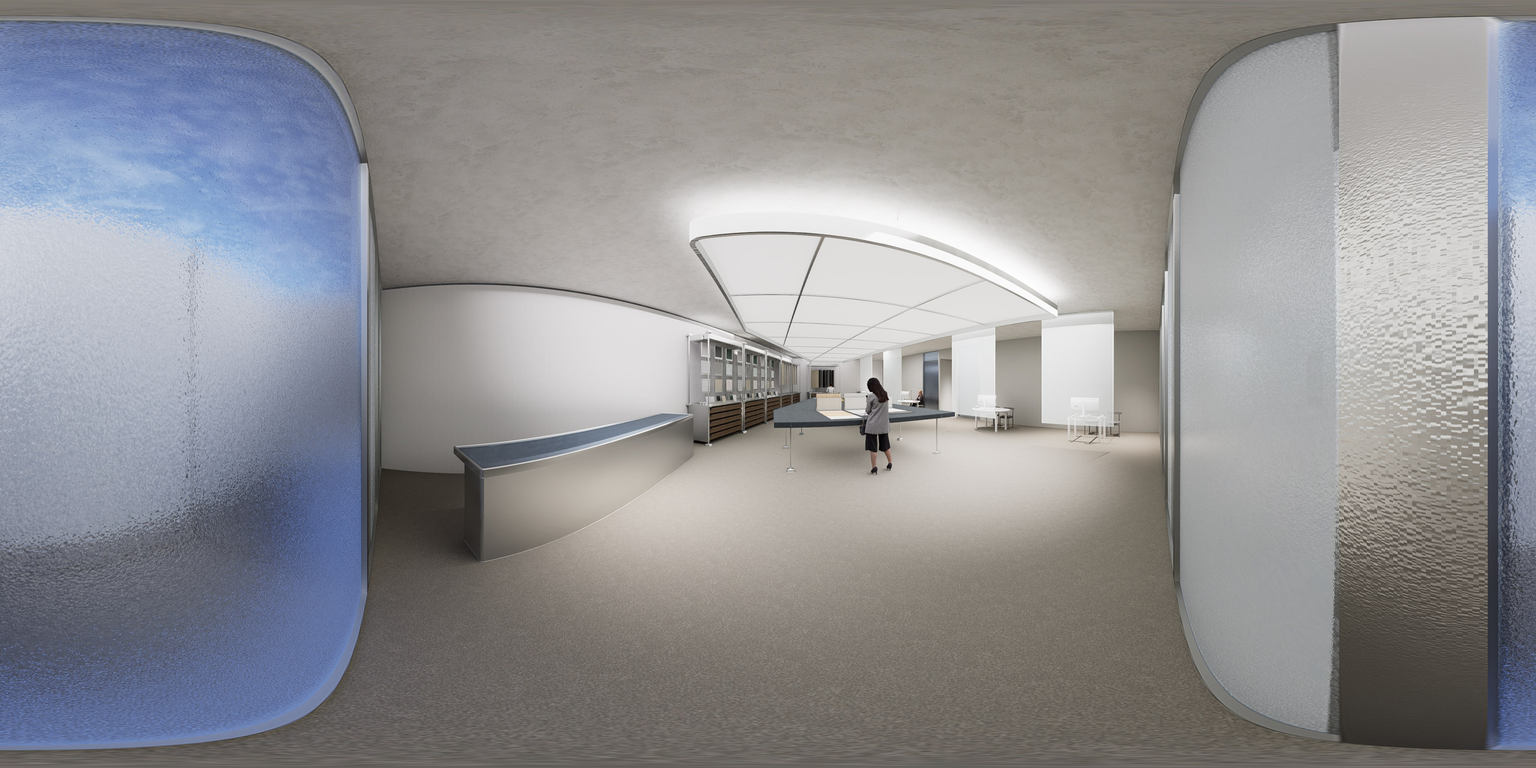
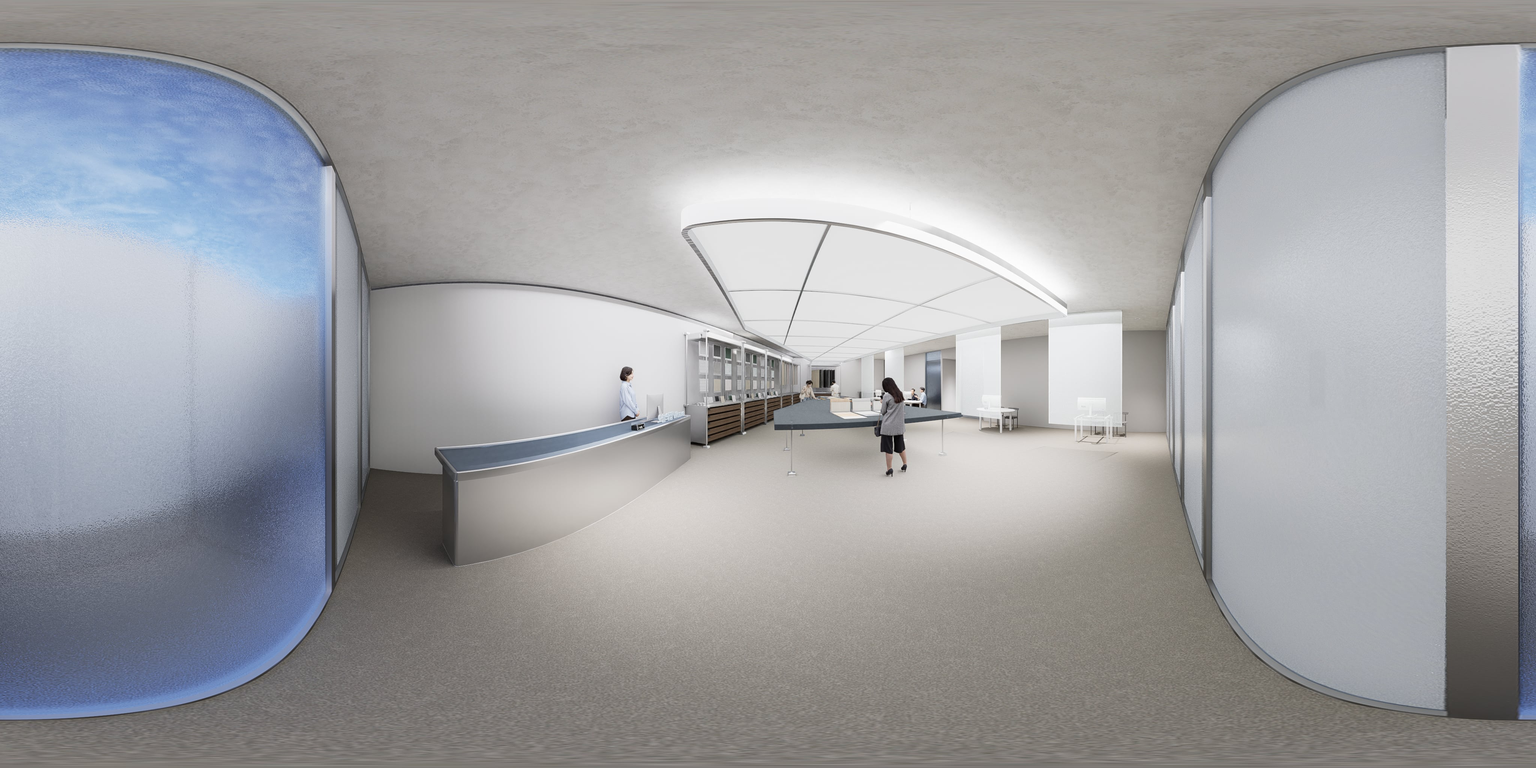
매장 렌더 교체: 새 렌더 4장을 장면에 배정
- store1 S0-5·6a, store2 S0-6b, store3 S0-6c, store4 S0-6d·e
- S0-6d·e는 store3 확대 시야 대신 store4 기본 시야
- 바닥 화살표 위치를 새 렌더 통로 바닥으로, 매장 4장을 같은 장(opening)으로 미리 불러옴
- 원본 PNG는 4K JPG로 줄여 올리고 기존 매장 렌더·빈 파일 삭제

Claude-Session: https://claude.ai/code/session_01RXp8MY4RTNqnWJfB5JWhVs

diff --git a/mvp/src/shared/scene.js b/mvp/src/shared/scene.js
@@ -5,7 +5,8 @@
 export const PANOS = {
   store_1: { name: '위브 매장 입구' },
   store_2: { name: '위브 매장 자재 라이브러리' },
-  store_3: { name: '위브 매장 상담 구역' },
+  store_3: { name: '위브 매장 샘플 테이블' },
+  store_4: { name: '위브 매장 상담실 앞' },
   counsel: { name: '상담실' },
   kitchen_front: { name: '주방 정면', view: 'front' },
   kitchen_side: { name: '주방 측면', view: 'side' },
@@ -83,10 +84,11 @@ export function parsePanoFile(file) {
 // ---------- 공간 위 좌표(yaw·pitch, 도) ----------
 // yaw 0 = 이미지 가로 중앙, +는 오른쪽. pitch +는 위. 렌더가 오면 태블릿 HUD의 좌표 표시로 재서 바꾼다(임시값)
 export const ANCHORS = {
-  // 매장 렌더(10/8): 바닥 화살표는 다음 공간 쪽 통로 바닥. 사람·가구와 겹치지 않는 자리
-  store_1: { hotspot: { yaw: 8, pitch: -22, to: 'store_2', label: '안쪽으로' } },
-  store_2: { hotspot: { yaw: -6, pitch: -24, to: 'store_3', label: '안쪽으로' } },
-  store_3: { hotspot: { yaw: -11, pitch: -11, to: 'counsel', label: '상담실로' } }, // 복도 입구 바닥(S0-6d·e에서 복도 쪽으로 확대한 시야 안)
+  // 매장 렌더(10/27 교체): 바닥 화살표는 다음 공간 쪽 통로 바닥. 사람·가구, 왼쪽 매니저 캐릭터와 겹치지 않는 자리
+  store_1: { hotspot: { yaw: 6, pitch: -26, to: 'store_2', label: '안쪽으로' } },
+  store_2: { hotspot: { yaw: 10, pitch: -26, to: 'store_3', label: '안쪽으로' } },
+  store_3: {}, // S0-6c는 '캡션 다음'으로 넘어가 화살표가 없다
+  store_4: { hotspot: { yaw: -7, pitch: -18, to: 'counsel', label: '상담실로' } }, // 가운데 상담실 복도 입구 바닥
   counsel: {},
   kitchen_front: {
     island: { yaw: -5, pitch: -20 }, // 아일랜드 누끼(CUT_PLACE.island_b_front) 가운데. 배치 연출 때 시선이 여기로

diff --git a/mvp/src/shared/pano-set.js b/mvp/src/shared/pano-set.js
@@ -3,13 +3,13 @@ import { FLOOR_AREA, LAYERS, PANOS, PLACEHOLDER_RECT, layerIdFor } from './scene
 import { FLOORS, ISLANDS } from './catalog.js';
 
 // 렌더가 없는 장면의 테스트 격자 색
-const TINTS = { store_1: '#e3ddd3', store_2: '#ddd6ca', counsel: '#d6dbe0', kitchen_front: '#e4e4e4', kitchen_side: '#dcdcdc' };
+const TINTS = { store_1: '#e3ddd3', store_2: '#ddd6ca', store_3: '#e0dace', store_4: '#d9d3c7', counsel: '#d6dbe0', kitchen_front: '#e4e4e4', kitchen_side: '#dcdcdc' };
 const ISLAND_TINT = { a: '#e8e4dc', b: '#5a2f22', c: '#b08a5e' };
 const FLOOR_WIRE = { portland: '#6f6a63', flosso: '#a39a8c' }; // 와이어프레임 바닥색(밝은 바닥 위에서도 보이게 실제보다 진하게)
 
 // 화면에 동시에 올려 두는 묶음(장). 장이 바뀌면 다른 장의 텍스처를 내린다(아이패드·아이맥 메모리 보호)
 const CHAPTERS = {
-  opening: ['store_1', 'store_2', 'counsel'],
+  opening: ['store_1', 'store_2', 'store_3', 'store_4', 'counsel'],
   main: ['kitchen_front', 'kitchen_side', ...Object.keys(LAYERS).map((id) => `layer:${id}`)],
 };
 const chapterOf = (pano) => (CHAPTERS.opening.includes(pano) ? 'opening' : 'main');

diff --git a/mvp/src/shared/scenario.js b/mvp/src/shared/scenario.js
@@ -136,7 +136,7 @@ export const STEPS = [
     caption: { speaker: 'manager', text: '상담실에서 김민선 씨가 기다리고 있으니, 이제 이동해볼게요.' },
     target: 'caption-next',
     hint: '다음',
-    tablet: { pano: 'store_3', view: { yaw: -11, pitch: -3, fov: 50 } }, // 상담실로 이어지는 복도 쪽으로 확대
+    tablet: { pano: 'store_4' }, // 상담실 쪽으로 다가간 매장 렌더(store_4)
     xr: { screen: 'standby' },
   },
   {
@@ -145,7 +145,7 @@ export const STEPS = [
     caption: { speaker: 'manager', text: '캡션 안내에 따라 순서대로 상담을 진행해주세요' },
     target: 'hotspot',
     hint: '화살표를 눌러 상담실로 이동',
-    tablet: { pano: 'store_3', view: { yaw: -11, pitch: -3, fov: 50 } },
+    tablet: { pano: 'store_4' },
     xr: { screen: 'standby' },
   },
   // ---------- 1 로딩 ----------

diff --git a/mvp/test/scenario.test.js b/mvp/test/scenario.test.js
@@ -141,7 +141,8 @@ test('매장: 화살표를 누르는 장면은 그 화살표가 가리키는 공
   }
   assert.equal(STEP['S0-6a'].tablet.character, 'front');
   assert.equal(STEP['S0-6b'].tablet.character, 'back');
-  assert.deepEqual(STEP['S0-6d'].tablet.view, STEP['S0-6e'].tablet.view); // 같은 복도 시야에서 이어짐
+  // 매장 렌더 배정(10/27): store1 S0-5·6a, store2 S0-6b, store3 S0-6c, store4 S0-6d·e
+  assert.deepEqual(['S0-5', 'S0-6a', 'S0-6b', 'S0-6c', 'S0-6d', 'S0-6e'].map((id) => STEP[id].tablet.pano), ['store_1', 'store_1', 'store_2', 'store_3', 'store_4', 'store_4']);
 });
 
 test('바닥재 측면 렌더를 _left 이름으로 올려도 측면 레이어로 인식', () => {

diff --git a/mvp/docs/PLAN.md b/mvp/docs/PLAN.md
@@ -94,6 +94,7 @@
 | 10/26 | 치수·주석 단계 설명 보강: 가이드 UI 문구 S2-2a·S2-2c·S3-1a 교체, S2-2a 치수확인 버튼의 지시문 말풍선을 빼고 딤+강조만, 가이드 UI(네이비 글씨)를 모든 장면에서 50px 아래로 | 사용자 피드백: 체험자가 치수·주석 기능의 의미를 이해하기 어려움 |
 | 10/26 | S0-3 상담 요청서: 등장 연출을 빼고 처음부터 모두 보이게, 의뢰 공간(0.7초) → 요청 사항(2.4초) → 무드보드(4.1초)가 1.6초씩 흰색 하이라이트(글자는 어둡게)됐다 돌아옴 | 사용자 피드백: 연출이 빨라 캡션이 눈에 안 들어옴 |
 | 10/26 | 상담 시작(S1)을 Figma(2015:5936)대로: 상담실 파노라마 위 검정 50%, 김민선 헤드셋 착용 모습은 카드 밖 오른쪽에 크게, 카드에는 불러오는 3D 도면(천천히 떠오르며 빛남). 문구 '김민선 씨가 XR 헤드셋을 착용 중 / 주방 3D도면을 불러오고 있어요' | 사용자 디자인 |
+| 10/27 | 매장 렌더 교체(새 렌더 4장): store1 S0-5·6a, store2 S0-6b, store3 S0-6c, store4 S0-6d·e. S0-6d·e는 store3을 당겨 보던 확대 대신 store4 기본 시야. 바닥 화살표를 새 렌더 통로 바닥으로 옮김(store3은 화살표 없음). 4K JPG(0.4~0.9MB)로 줄여 git에 | 사용자 렌더 수정. 원본 PNG(11~19MB)는 git에 올리지 않음 |
 | 10/8 | 매장 렌더 3장·상담실 렌더 반영. 매장 단계 S0-5c 추가(입구 → 자재 라이브러리 → 상담 구역 → 상담실), 4K JPG로 변환해 원본 PNG는 git에서 뺌 | 사용자 업로드. 매장·상담실은 태블릿에만 나와 4K로 충분 |
 | 10/8 | **시나리오 수정**: S2는 김민선 무드보드로 시작, S3·S4는 매니저가 제안(아일랜드 3개·바닥재) → 김민선이 XR에서 고름. 옛 S3-2·S3-3a~c와 상담상세 후보 고르기 삭제. 바닥재 단계는 측면(kitchen_side) 시점 | 고객의 결정권과 XR 화면과의 상호작용 강화(사용자 수정안) |
 | 10/8 | 매니저 말풍선은 매장 장면에만, 상담 중에는 **가이드 UI**(Figma 1438:4043)로 할 일 안내. 체험자가 맡은 매니저의 대사는 XR 자막으로만 | 체험자 본인이 매니저라 매니저 말풍선이 헷갈림 |

diff --git a/mvp/docs/SCENARIO.md b/mvp/docs/SCENARIO.md
@@ -22,8 +22,8 @@
 | S0-6a | store_1 + 매니저 정면 | — | 매니저: 김민선씨의 아파트 주방 스캔본을 보면서 상담을 진행할텐데,<br>오늘은 첫 컨설팅이니까 제가 함께 동행할거에요 | 바닥 화살표 | 대기 화면 |
 | S0-6b | store_2 + 매니저 뒷모습 | — | 매니저: 이곳은 상담 전 자재를 둘러볼 수 있는 공간이에요. | 바닥 화살표 | 대기 화면 |
 | S0-6c | store_3 | — | 매니저: 실물 샘플이 비치되어있어서, 상담 중 필요한 자재는 직접 가져다 제안할 수 있어요 | 캡션 다음 | 대기 화면 |
-| S0-6d | store_3 + 복도 쪽 확대 | — | 매니저: 상담실에서 김민선 씨가 기다리고 있으니, 이제 이동해볼게요. | 캡션 다음 | 대기 화면 |
-| S0-6e | store_3 + 복도 쪽 확대 | — | 매니저: 캡션 안내에 따라 순서대로 상담을 진행해주세요 | 바닥 화살표 | 대기 화면 |
+| S0-6d | store_4 | — | 매니저: 상담실에서 김민선 씨가 기다리고 있으니, 이제 이동해볼게요. | 캡션 다음 | 대기 화면 |
+| S0-6e | store_4 | — | 매니저: 캡션 안내에 따라 순서대로 상담을 진행해주세요 | 바닥 화살표 | 대기 화면 |
 | S1 | counsel + 로딩 카드 | 김민선 씨가 XR 헤드셋을 착용 중 | — | 자동 3.5초 | 부팅 |
 | S2-1 | kitchen_front + 무드보드 | 김민선 씨가 무드보드를 공유했어요 | 김민선: 이 사진들처럼 주방에 조리대 겸 식탁으로 쓸 수 있는 아일랜드를 추가하고,<br>바닥재도 차분한 톤으로 맞추고 싶어요 | 캡션 다음 (60° 둘러보기 또는 6초 뒤 열림) | 상담홈 · 무드보드 · 자막(김민선) |
 | S2-2a | kitchen_front | 싱크대로부터 이동 동선을 확보하려면 최소 900mm는 띄워야해요 | — | 치수확인 | 상담홈 · 자막(매니저): 싱크대로부터 900mm 이동동선 확보하고 이 쪽에 한 번 배치해볼게요 |

diff --git a/mvp/assets/pano/README.md b/mvp/assets/pano/README.md
@@ -16,9 +16,10 @@ D5에서 렌더한 360° equirectangular 이미지를 이 폴더에 넣는다. *
 |---|---|---|
 | `kitchen_front` | 주방 정면 · 아일랜드 없음 · 기존 바닥(밝은 마루, 10/14 렌더) | 있음(4K, git) |
 | `kitchen_side` | 주방 측면 · 아일랜드 없음 · 기존 바닥(10/14 렌더) | 있음(4K, git) |
-| `store_1` | 위브 매장 입구 | 있음(4K) |
-| `store_2` | 위브 매장 자재 라이브러리 | 있음(4K) |
-| `store_3` | 위브 매장 상담 구역 | 있음(4K) |
+| `store_1` | 위브 매장 입구 (S0-5·S0-6a) | 있음(4K, 10/27 교체) |
+| `store_2` | 위브 매장 자재 라이브러리 (S0-6b) | 있음(4K, 10/27 교체) |
+| `store_3` | 위브 매장 샘플 테이블 (S0-6c) | 있음(4K, 10/27 교체) |
+| `store_4` | 위브 매장 상담실 앞 (S0-6d·e) | 있음(4K, 10/27 추가) |
 | `counsel` | 상담실 | 있음(4K) |
 
 매장·상담실은 태블릿에만 나오므로 4K(`_4k.jpg`)로 충분하다.

diff --git a/mvp/docs/captures/2026-10-27/README.md b/mvp/docs/captures/2026-10-27/README.md
@@ -1,0 +1,3 @@
+# 10/27 캡처
+
+- `store_scenes.jpg`: 새 매장 렌더 반영 후 S0-5 · S0-6a / S0-6b · S0-6c / S0-6d · S0-6e (아이패드 1180×820, 왼쪽→오른쪽, 위→아래)
